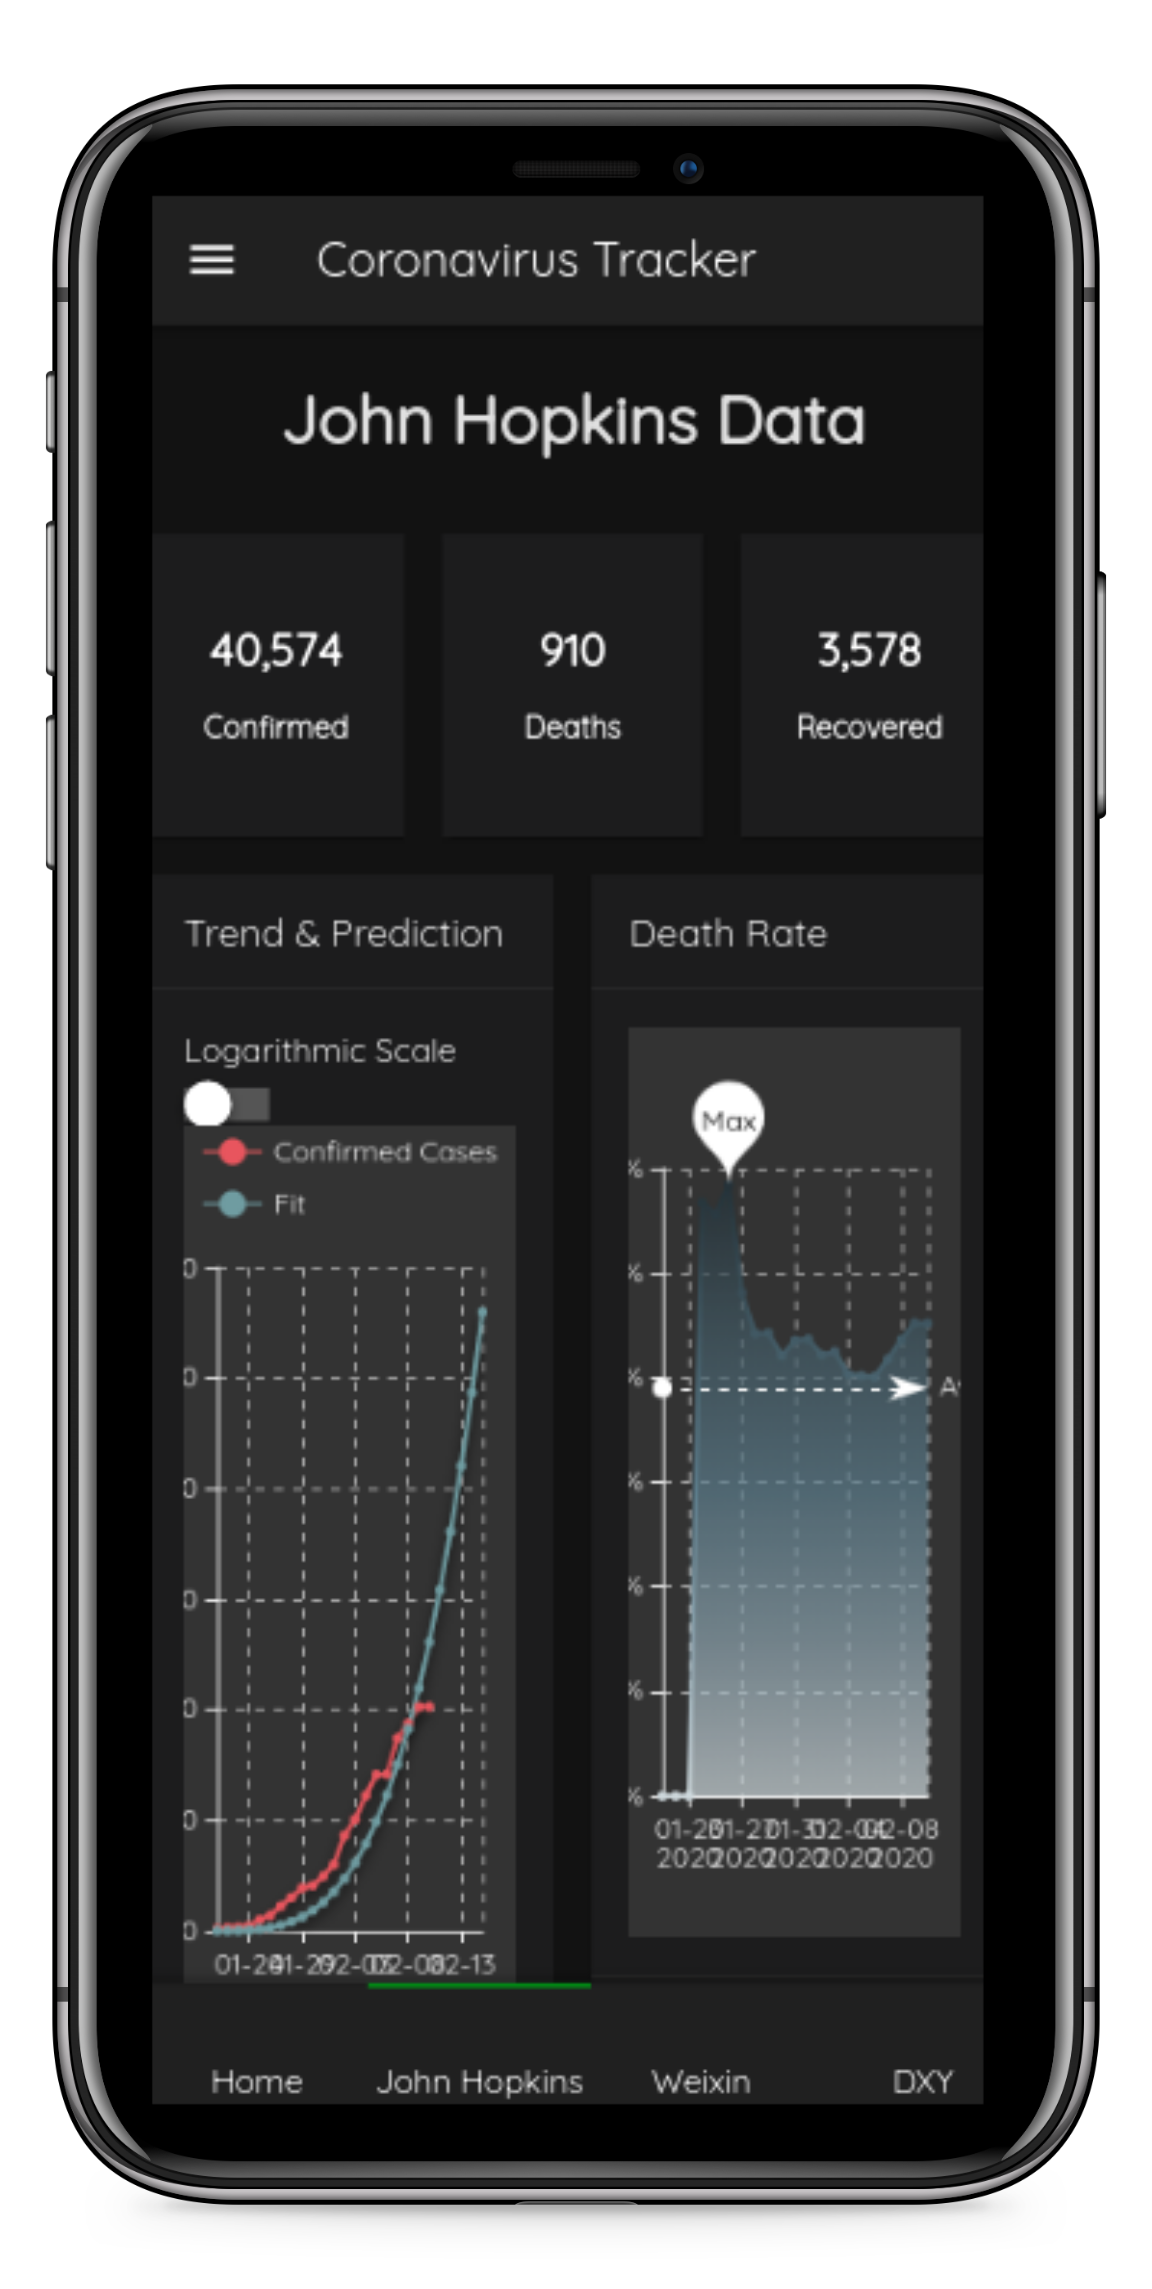
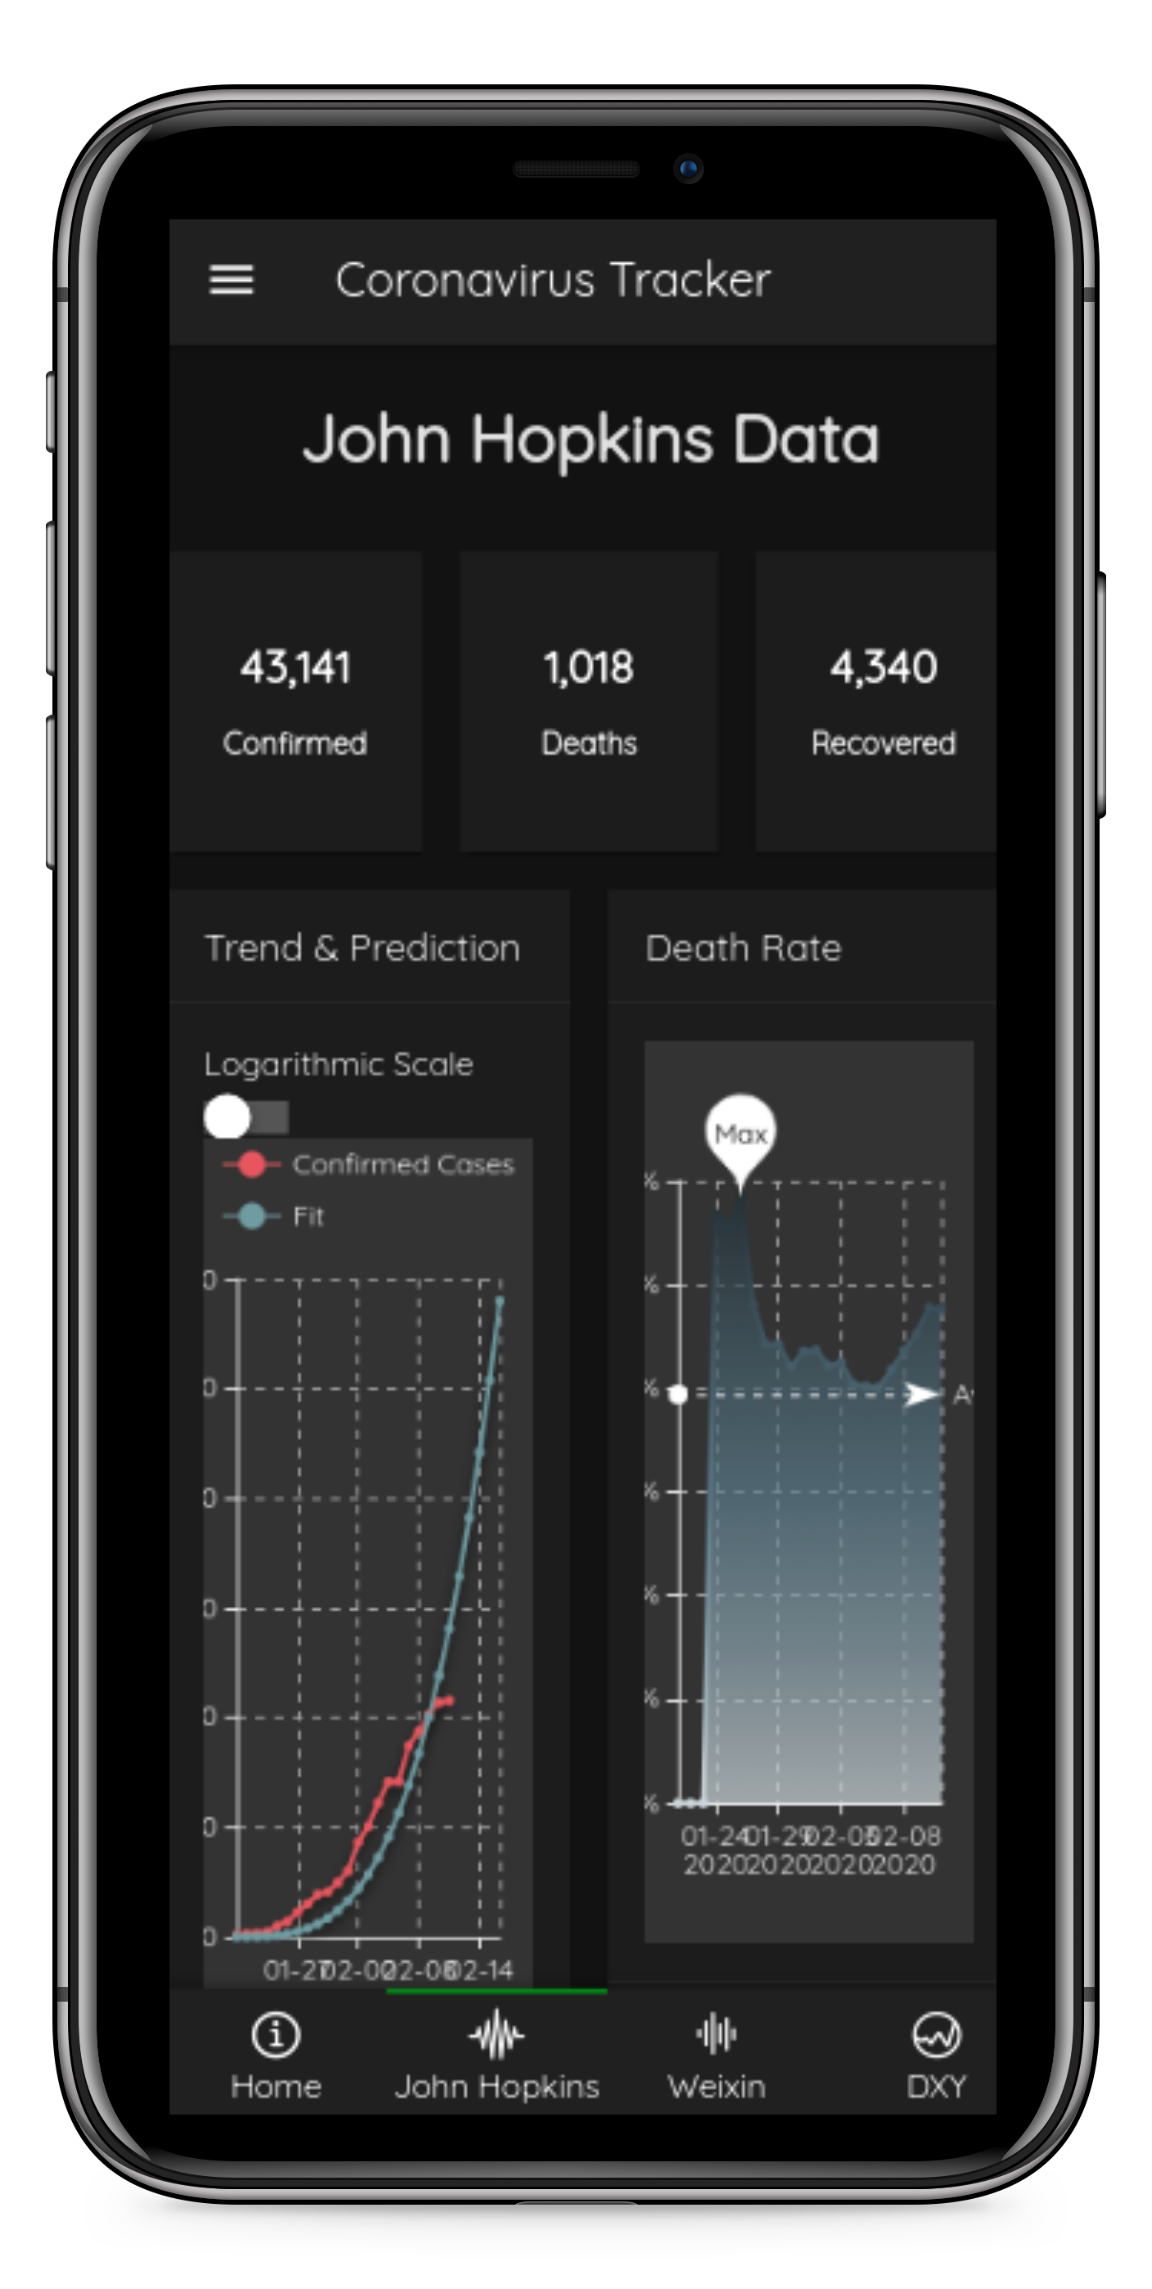
update images

diff --git a/docs/get-started.md b/docs/get-started.md
@@ -9,6 +9,12 @@ The tracker takes the form of a package, you can get it from Github with the `re
 remotes::install_github("JohnCoene/coronavirus")
 ```
 
+Force reinstall the latest shinyMobile to ensure the icons work correctly.
+
+```r
+remotes::install_github("RinteRface/shinyMobile", force = TRUE) 
+```
+
 ## Test
 
 You can test the app before preparing any kind of deployment (e.g.: set up a database). Load the library and use `crawl_coronavirus` to get data, then forward that data to the `run_app` function which launches the application.
